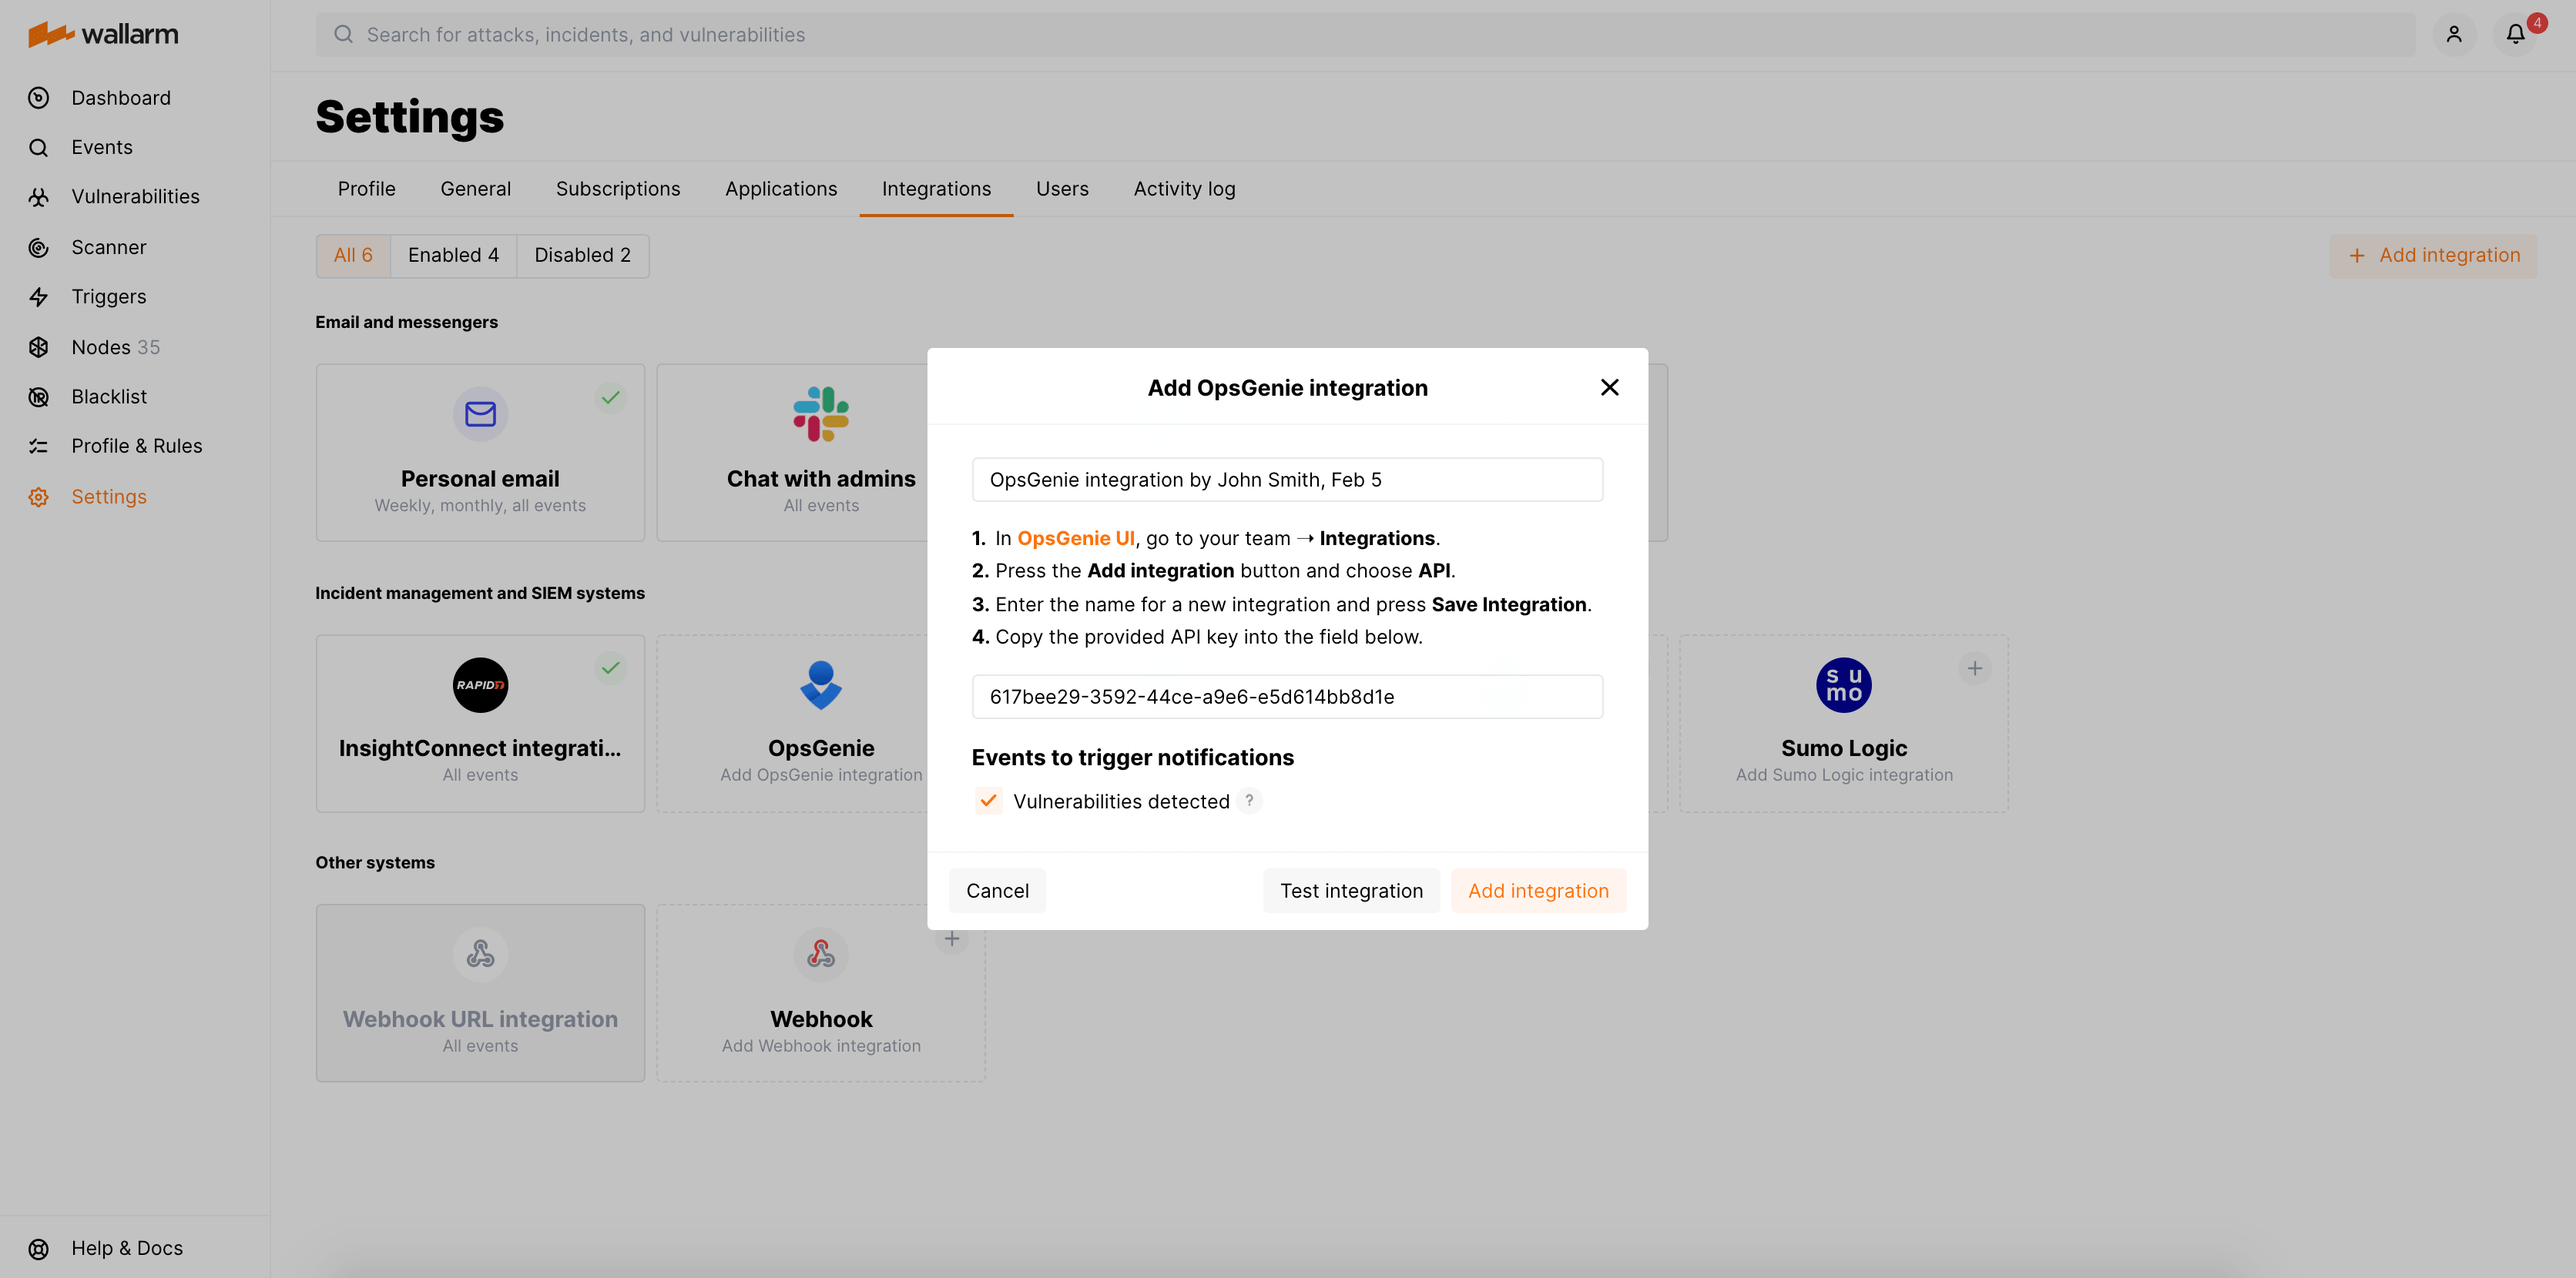
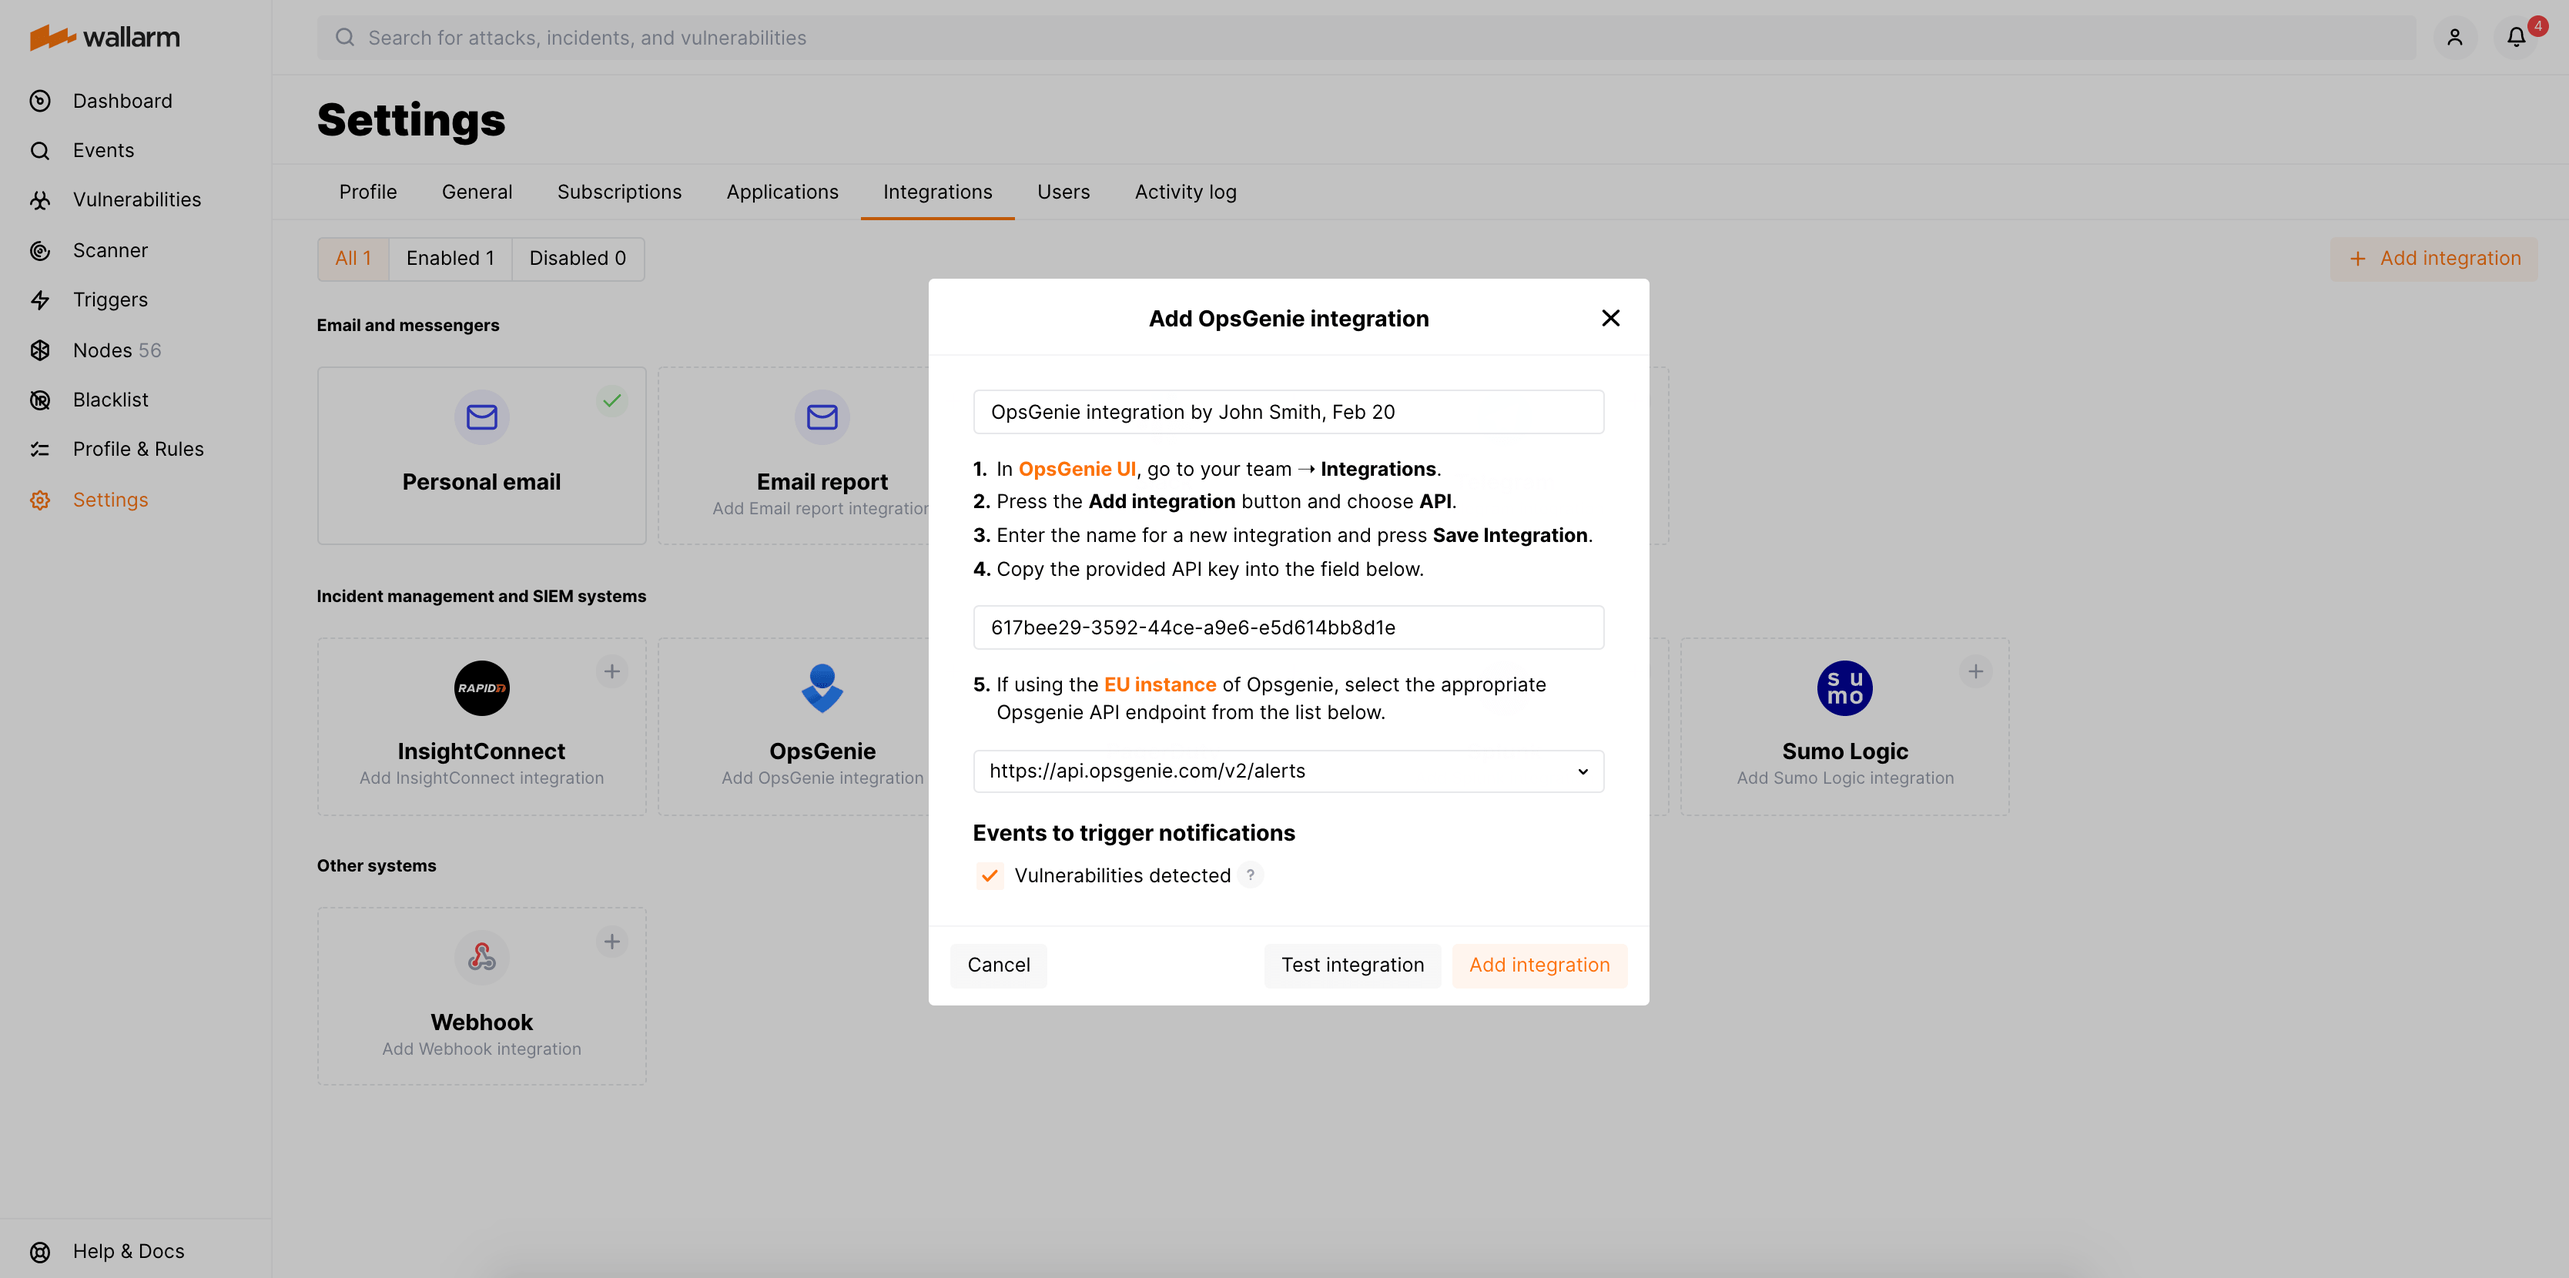
DOCS-1167 mention new field in the OpsGenie configuration form

diff --git a/docs/latest/user-guides/settings/integrations/opsgenie.md b/docs/latest/user-guides/settings/integrations/opsgenie.md
@@ -1,6 +1,6 @@
 # OpsGenie
 
-You can set up Wallarm to send alerts to OpsGenie when following events are triggered:
+You can set up Wallarm to send alerts to OpsGenie when the following events are triggered:
 
 * [Vulnerabilities](../../../glossary-en.md#vulnerability) detected
 
@@ -19,9 +19,10 @@ In Wallarm UI:
 2. Click the **OpsGenie** block or click the **Add integration** button and choose **OpsGenie**.
 3. Enter an integration name.
 4. Paste the copied API key to the **API key** field.
-5. Choose event types to trigger notifications. If the events are not chosen, then notifications will not be sent.
-6. [Test the integration](#testing-integration) and ensure the settings are correct.
-7. Click **Add integration**.
+5. If using the [EU instance](https://docs.opsgenie.com/docs/european-service-region) of Opsgenie, select the appropriate Opsgenie API endpoint from the list. By default, the US instance endpoint is set.
+6. Choose event types to trigger notifications. If the events are not chosen, then notifications will not be sent.
+7. [Test the integration](#testing-integration) and ensure the settings are correct.
+8. Click **Add integration**.
 
     ![!OpsGenie integration](../../../images/user-guides/settings/integrations/add-opsgenie-integration.png)
 
